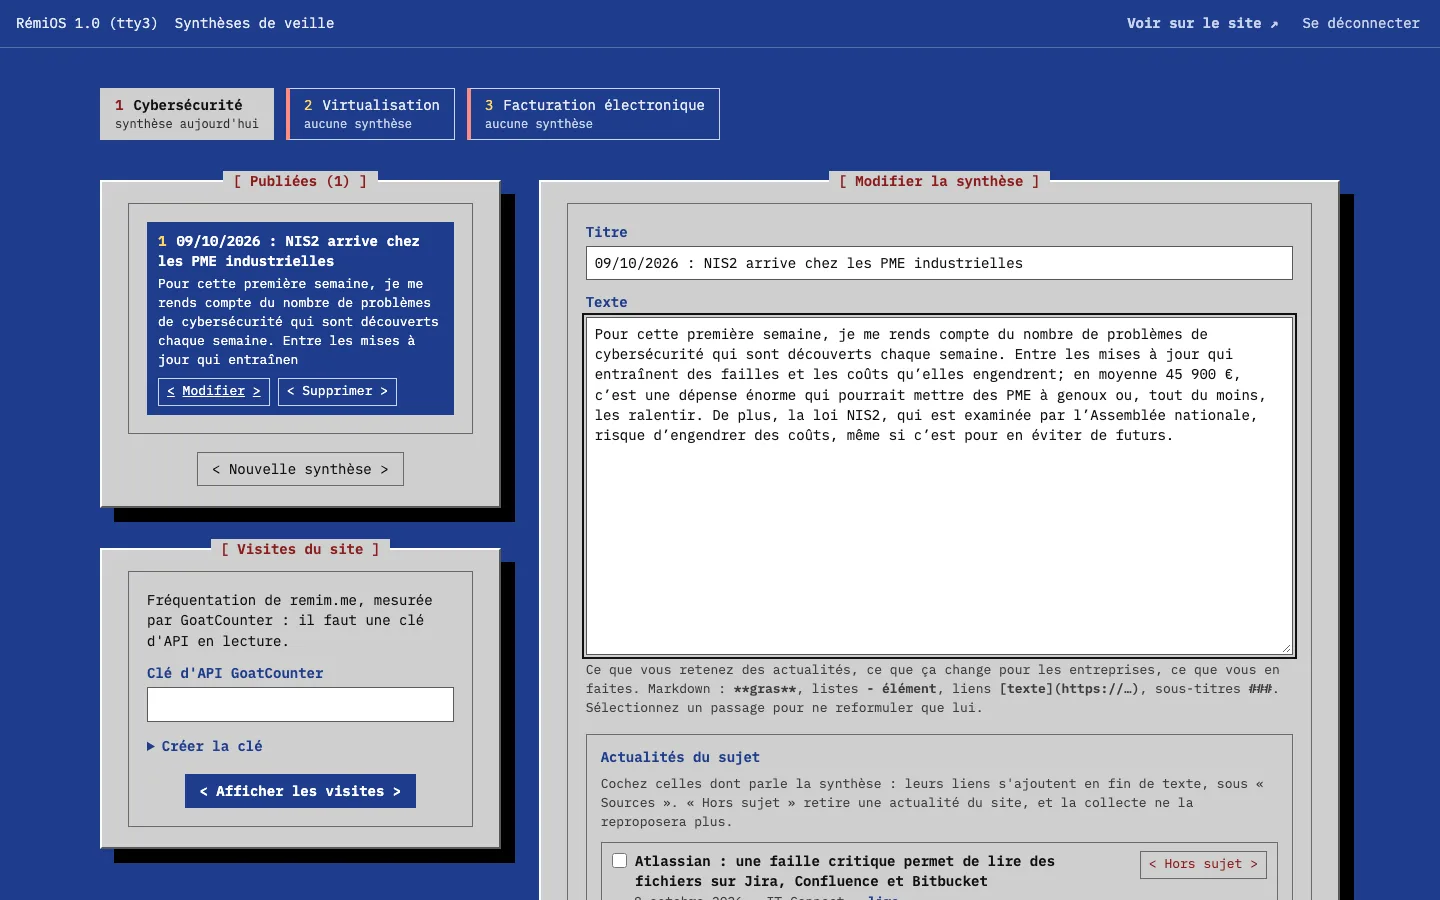
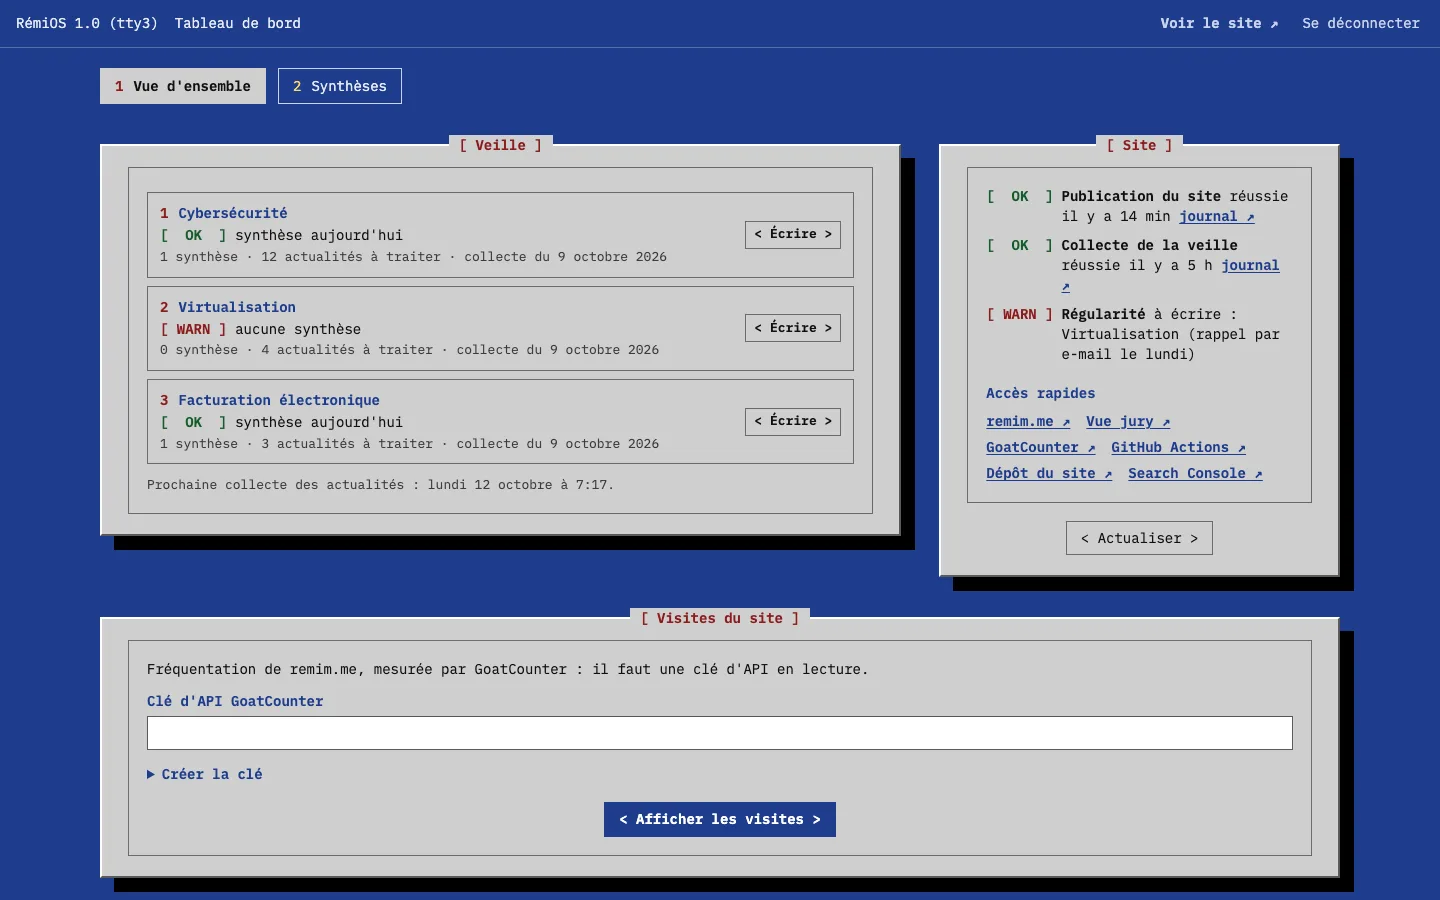
docs: tableau de bord sur dashboard.remim.me, avec une vue d'ensemble
Liens et textes mis à jour (README, fiche « Portfolio RémiOS », schéma,
consignes des synthèses, rappel du lundi, reformulation) ; captures du
nouveau tableau de bord (vue d'ensemble et vue Synthèses).

diff --git a/content/realisations/portfolio-remios.md b/content/realisations/portfolio-remios.md
@@ -51,7 +51,7 @@ C'est aussi ma présence en ligne de candidat : le jury, les recruteurs et mes c
 **L'hébergement et le nom de domaine.**
 
 - GitHub Pages sert le site en HTTPS, avec un certificat renouvelé automatiquement.
-- Le domaine remim.me est géré chez Namecheap : des enregistrements A vers les serveurs de GitHub Pages, un CNAME pour www, et un autre pour veille.remim.me, le sous-domaine du tableau de bord.
+- Le domaine remim.me est géré chez Namecheap : des enregistrements A vers les serveurs de GitHub Pages, un CNAME pour www, et un autre pour dashboard.remim.me, le sous-domaine du tableau de bord.
 - La publication est continue, avec GitHub Actions : à chaque envoi, vérification du code, construction, tests, puis mise en ligne. Une erreur arrête tout, et le site en ligne reste intact.
 - Une version Docker est prête pour l'héberger sur mon homelab : une image construite en deux étapes, servie par Nginx avec des en-têtes de sécurité.
 
@@ -63,15 +63,16 @@ C'est aussi ma présence en ligne de candidat : le jury, les recruteurs et mes c
 
 **La veille technologique.** Chaque lundi, une tâche GitHub Actions lit les flux RSS de 33 sources. GitHub Copilot choisit ensuite, pour chacun de mes trois sujets (cybersécurité des PME industrielles, virtualisation, facturation électronique), les articles les plus utiles, les résume et leur attribue des tags. Les actualités s'affichent dans la rubrique « Veille technologique », un onglet par sujet.
 
-**Le tableau de bord des synthèses** (veille.remim.me). C'est un second site statique, dans son propre dépôt, pour écrire mes synthèses sans ouvrir d'éditeur de code :
+**Le tableau de bord** (dashboard.remim.me). C'est un second site statique, dans son propre dépôt, pour piloter le portfolio sans ouvrir d'éditeur de code :
 
-- connexion par un jeton GitHub limité au dépôt du site et à deux droits : chaque enregistrement est un commit, qui republie le site ;
+- une vue d'ensemble : l'état de chaque veille (dernière synthèse, actualités à traiter, dernière collecte), le résultat de la dernière publication et de la dernière collecte, et les visites du site ;
+- connexion par un jeton GitHub limité au dépôt du site et à deux droits : chaque synthèse enregistrée est un commit, qui republie le site ;
 - reformulation d'un passage par l'IA : la page n'a pas de serveur, elle passe par un workflow GitHub Actions, sans jamais exposer le secret de l'IA ;
 - choix des actualités citées en sources, et retrait d'une actualité hors sujet ;
 - ancienneté de la dernière synthèse de chaque sujet, avec un rappel par e-mail (issue GitHub) si un sujet n'a rien depuis trois semaines ;
 - visites du site sur 7, 30 ou 90 jours, pages les plus vues et provenance des visiteurs.
 
-![Schéma d'architecture du portfolio : les visiteurs ouvrent remim.me en HTTPS ; le nom de domaine, géré chez Namecheap, mène à GitHub Pages, qui sert le portfolio et le tableau de bord veille.remim.me. Chaque page vue est comptée par GoatCounter. J'écris dans VS Code ou depuis le tableau de bord, qui enregistre dans le dépôt par l'API GitHub. Chaque envoi déclenche GitHub Actions, qui teste puis publie le site. Chaque lundi, la veille lit 33 flux RSS et fait résumer les articles par GitHub Copilot.](schemas/portfolio-architecture.svg "Architecture du portfolio : publication, veille automatique et tableau de bord")
+![Schéma d'architecture du portfolio : les visiteurs ouvrent remim.me en HTTPS ; le nom de domaine, géré chez Namecheap, mène à GitHub Pages, qui sert le portfolio et le tableau de bord dashboard.remim.me. Chaque page vue est comptée par GoatCounter. J'écris dans VS Code ou depuis le tableau de bord, qui enregistre dans le dépôt par l'API GitHub. Chaque envoi déclenche GitHub Actions, qui teste puis publie le site. Chaque lundi, la veille lit 33 flux RSS et fait résumer les articles par GitHub Copilot.](schemas/portfolio-architecture.svg "Architecture du portfolio : publication, veille automatique et tableau de bord")
 
 Claude Code m'a assisté pendant le développement.
 
@@ -87,7 +88,9 @@ Code source (licence MIT) : [le site](https://github.com/moreauremi/moreauremi.g
 
 ![Terminal caché : les commandes ls et cat affichent les fichiers du site, dont le dossier de chaque sujet de veille](captures/portfolio-remios/terminal.webp "Terminal caché : le site parcouru comme un système de fichiers")
 
-![Tableau de bord des synthèses : barre des trois sujets avec l'ancienneté de la dernière synthèse, liste des synthèses publiées, boîte des visites, et éditeur avec les actualités à citer en sources](captures/portfolio-remios/tableau-de-bord.webp "Tableau de bord veille.remim.me : écrire, citer ses sources, suivre sa régularité")
+![Vue d'ensemble du tableau de bord : état des trois veilles avec l'ancienneté de la dernière synthèse, état de la publication et de la collecte façon journal de démarrage, accès rapides, et boîte des visites du site](captures/portfolio-remios/tableau-de-bord.webp "Tableau de bord dashboard.remim.me : la vue d'ensemble")
+
+![Vue Synthèses du tableau de bord : barre des sujets, liste des synthèses publiées, éditeur, et actualités du sujet à cocher pour les citer en sources](captures/portfolio-remios/syntheses.webp "Tableau de bord : écrire une synthèse et citer ses sources")
 
 ## Résultats et tests
 

diff --git a/README.md b/README.md
@@ -134,7 +134,7 @@ Pour retrouver tous les repères : dans VS Code, `Cmd+Maj+F` puis `À COMPLÉTER
 - [ ] **PDF** : tableau de synthèse.
 - [x] **Veille** : trois sujets (cybersécurité des PME industrielles, virtualisation, facturation électronique) et collecte automatique en place (voir [Veille automatique](#veille-automatique)).
 - [x] **Jeton Copilot** : jeton GitHub « Copilot Requests » rangé dans les secrets du dépôt (`COPILOT_GITHUB_TOKEN`) ; la collecte des trois sujets fonctionne (9 octobre 2026). À renouveler avant son expiration, un an après sa création (voir [Mise en route](#mise-en-route-une-seule-fois)).
-- [ ] **Synthèses de veille** : rédiger régulièrement l'onglet « Mes synthèses » de chaque sujet, depuis https://veille.remim.me, à partir des actualités collectées.
+- [ ] **Synthèses de veille** : rédiger régulièrement l'onglet « Mes synthèses » de chaque sujet, depuis https://dashboard.remim.me, à partir des actualités collectées.
 - [ ] **Certifications** : celles obtenues ou en cours, avec leur justificatif.
 - [ ] **Réalisations en formation** (3 fiches en brouillon) : titres et contenu, au fil des TP et projets de cours. Le groupe affiche « À venir » sur le site tant qu'aucune n'est publiée.
 
@@ -177,7 +177,7 @@ content/veille/<sujet>/  un dossier par sujet de veille : pourquoi ce sujet (suj
 scripts/veille.mjs       veille automatique : pour chaque sujet, flux RSS → choix, résumés et tags par l'IA
                          → actualites.json
 scripts/ia.mjs           appel de l'IA (Copilot CLI ou API), commun à la veille et à la reformulation
-scripts/reformuler.mjs   reformulation d'un passage pour le tableau de bord des synthèses (veille.remim.me)
+scripts/reformuler.mjs   reformulation d'un passage pour le tableau de bord (dashboard.remim.me)
 index.html               page unique : meta, Open Graph, préchargement de la police
 404.html, 403.html       pages d'erreur du serveur : adresse inconnue, accès refusé
 503.html                 page de maintenance affichée par le reverse proxy (fichier autonome)
@@ -392,12 +392,12 @@ npm run veille                  # collecte complète, écrit content/veille/<suj
 
 ## Tableau de bord des synthèses
 
-Les synthèses de l'onglet « Mes synthèses » s'écrivent depuis une page privée, **https://veille.remim.me** : choix du sujet, liste, ajout, modification, suppression, aperçu, et **Reformuler avec l'IA** sur un passage sélectionné. Chaque enregistrement est un commit de `content/veille/<sujet>/syntheses.md` sur `main`, qui republie le site. Le code de la page, sa mise en route (DNS, jeton) et ses choix de sécurité sont dans son propre dépôt : [moreauremi/veille-syntheses](https://github.com/moreauremi/veille-syntheses).
+Un tableau de bord privé, **https://dashboard.remim.me**, pilote le portfolio. Sa **vue d'ensemble** montre l'état de chaque veille (dernière synthèse, actualités à traiter, dernière collecte), le résultat de la dernière publication et de la dernière collecte, et les visites du site. Sa vue **Synthèses** sert à écrire l'onglet « Mes synthèses » de chaque sujet : choix du sujet, liste, ajout, modification, suppression, aperçu, actualités à citer en sources, et **Reformuler avec l'IA** sur un passage sélectionné. Chaque enregistrement est un commit de `content/veille/<sujet>/syntheses.md` sur `main`, qui republie le site. Le code de la page, sa mise en route (DNS, jeton) et ses choix de sécurité sont dans son propre dépôt : [moreauremi/veille-syntheses](https://github.com/moreauremi/veille-syntheses).
 
 La page est statique (GitHub Pages) et n'a pas de serveur pour appeler l'IA. La reformulation passe donc par un workflow de **ce** dépôt, qui réutilise l'IA et le secret de la veille :
 
 ```
-veille.remim.me ──► version (release) brouillon ──► workflow reformuler.yml ──► scripts/reformuler.mjs ──► réponse écrite
+dashboard.remim.me ──► version (release) brouillon ──► workflow reformuler.yml ──► scripts/reformuler.mjs ──► réponse écrite
                     de ce dépôt, avec le passage    (lancé par la page)          Copilot (scripts/ia.mjs)    dans le même brouillon,
                                                                                                              lue puis supprimée par la page
 ```

diff --git a/content/pages/veille.md b/content/pages/veille.md
@@ -8,7 +8,7 @@ titre: Veille technologique
   content/site.config.js (veille.sujets). Chaque sujet a son dossier
   content/veille/<id>/ :
     sujet.md          pourquoi ce sujet
-    syntheses.md      mes synthèses (écrites depuis https://veille.remim.me)
+    syntheses.md      mes synthèses (écrites depuis https://dashboard.remim.me)
     actualites.json   actualités ajoutées chaque lundi par scripts/veille.mjs
   Ce fichier contient ce qui est commun aux trois sujets : la méthode.
 -->

diff --git a/content/veille/cybersecurite/syntheses.md b/content/veille/cybersecurite/syntheses.md
@@ -15,7 +15,7 @@ titre: Mes synthèses
   Texte de la synthèse…
 
   Les synthèses s'écrivent de préférence depuis le tableau de bord
-  https://veille.remim.me, qui enregistre ce fichier sur GitHub : faire
+  https://dashboard.remim.me, qui enregistre ce fichier sur GitHub : faire
   `git pull` avant de le modifier à la main. Voir le README.
 -->
 

diff --git a/content/veille/facturation-electronique/syntheses.md b/content/veille/facturation-electronique/syntheses.md
@@ -15,7 +15,7 @@ titre: Mes synthèses
   Texte de la synthèse…
 
   Les synthèses s'écrivent de préférence depuis le tableau de bord
-  https://veille.remim.me, qui enregistre ce fichier sur GitHub : faire
+  https://dashboard.remim.me, qui enregistre ce fichier sur GitHub : faire
   `git pull` avant de le modifier à la main. Voir le README.
 -->
 

diff --git a/content/veille/virtualisation/syntheses.md b/content/veille/virtualisation/syntheses.md
@@ -15,7 +15,7 @@ titre: Mes synthèses
   Texte de la synthèse…
 
   Les synthèses s'écrivent de préférence depuis le tableau de bord
-  https://veille.remim.me, qui enregistre ce fichier sur GitHub : faire
+  https://dashboard.remim.me, qui enregistre ce fichier sur GitHub : faire
   `git pull` avant de le modifier à la main. Voir le README.
 -->
 
